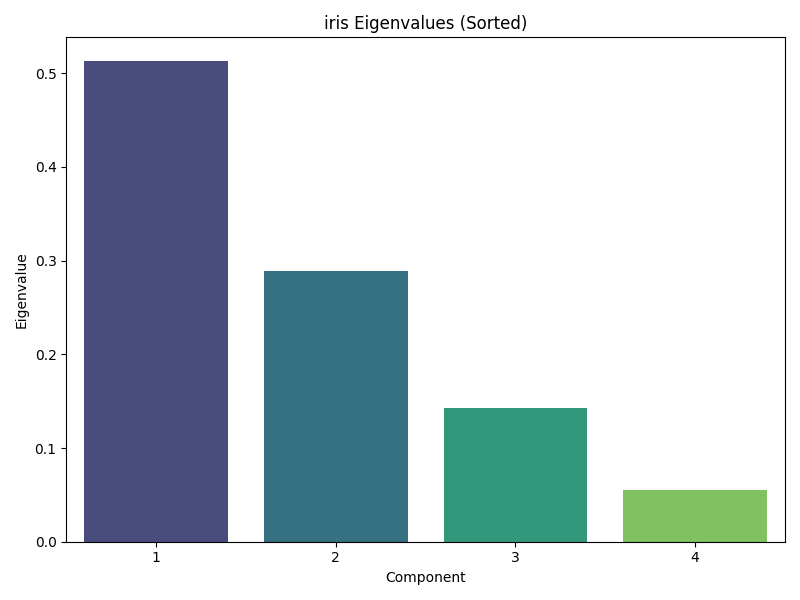
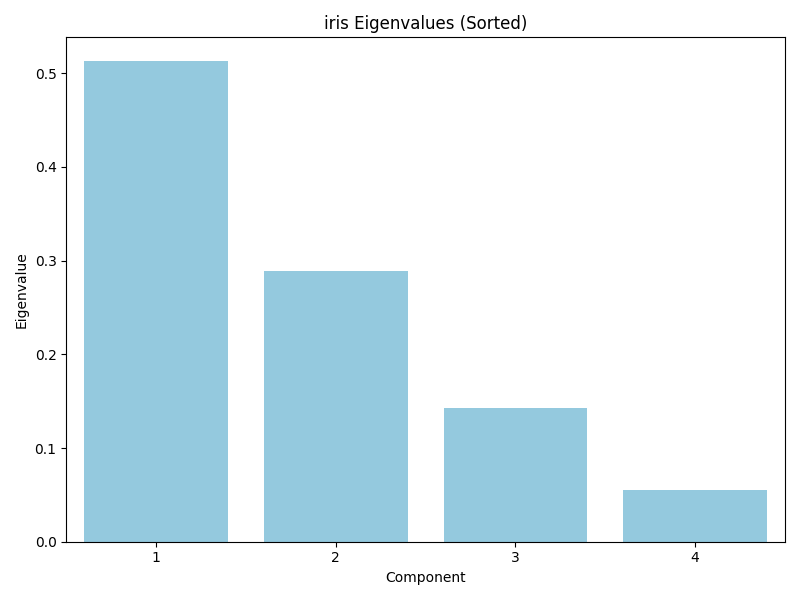
Update Alseis.py
虚部を明示的に切り捨てるよう変更しました．

Changed region(s): [[0.0938, 0.09, 0.75, 0.93], [0.7812, 0.81, 0.9688, 0.93]]

diff --git a/Alseis.py b/Alseis.py
@@ -183,6 +183,10 @@ def perform_qpca(circuits, num_iterations, simulator, config):
     # 固有値と固有ベクトルを計算（qPCAの中心的な部分）
     eigenvalues, eigenvectors = eigh(avg_density_matrix)
 
+    # 実数部分のみを使用
+    eigenvalues = eigenvalues.real
+    eigenvectors = eigenvectors.real
+
     if config_print_eigenvalues:
         print("Eigenvalues:")
         print(eigenvalues)
@@ -201,8 +205,8 @@ def decode_quantum_data(top_eigenvectors, scaled_data):
     """
     qPCAで次元削減した量子データを古典データに低次元空間に射影します
     """
-    # 元のデータを低次元空間に射影するために、データと固有ベクトルの次元を整合させる
-    top_eigenvectors_reduced = top_eigenvectors[:scaled_data.shape[1], :]
+    # 実数部分のみを使用
+    top_eigenvectors_reduced = top_eigenvectors[:scaled_data.shape[1], :].real
     reduced_data = np.dot(scaled_data, top_eigenvectors_reduced)
     return reduced_data
 
@@ -242,6 +246,9 @@ def plot_original_data(scaled_data, labels, dataset_name, config):
     else:
         data_2d = scaled_data
         title = f"{dataset_name} Original Data"
+
+    # 実数部分のみを使用
+    data_2d = data_2d.real
 
     plt.figure(figsize=(8, 6))
     if labels is not None:
@@ -284,6 +291,9 @@ def plot_qpca_results(decoded_data, labels, dataset_name, config):
         data_2d = decoded_data
         title = f"{dataset_name} qPCA Results"
 
+    # 実数部分のみを使用
+    data_2d = data_2d.real
+
     plt.figure(figsize=(8, 6))
     if labels is not None:
         unique_labels = np.unique(labels)
@@ -319,8 +329,11 @@ def plot_eigenvalues(eigenvalues, sorted_indices, dataset_name, config):
 
     sorted_eigenvalues = eigenvalues[sorted_indices]
     plt.figure(figsize=(8, 6))
+
+    # paletteを使用せず、colorパラメータを使用
     sns.barplot(x=np.arange(1, len(sorted_eigenvalues)+1),
-                y=sorted_eigenvalues, palette="viridis")
+                y=sorted_eigenvalues, color="skyblue")
+
     plt.title(f"{dataset_name} Eigenvalues (Sorted)")
     plt.xlabel("Component")
     plt.ylabel("Eigenvalue")
@@ -346,7 +359,7 @@ def main():
         'normalization_method', 'standard').split(',')
     encoding_methods = config.get('encoding_method', 'amplitude').split(',')
     config_print_circuit = config.get('print_circuit', False)
-    config_print_top_eigenvectors = config.get('print_top_eigenvectors', False)
+    config_print_top_eigenvectors = config.get('print_eigenvectors', False)
     config_print_classical_data = config.get('print_classical_data', False)
 
     # Cirqのシミュレーターにシードを渡す（固定シードが必要な場合）
